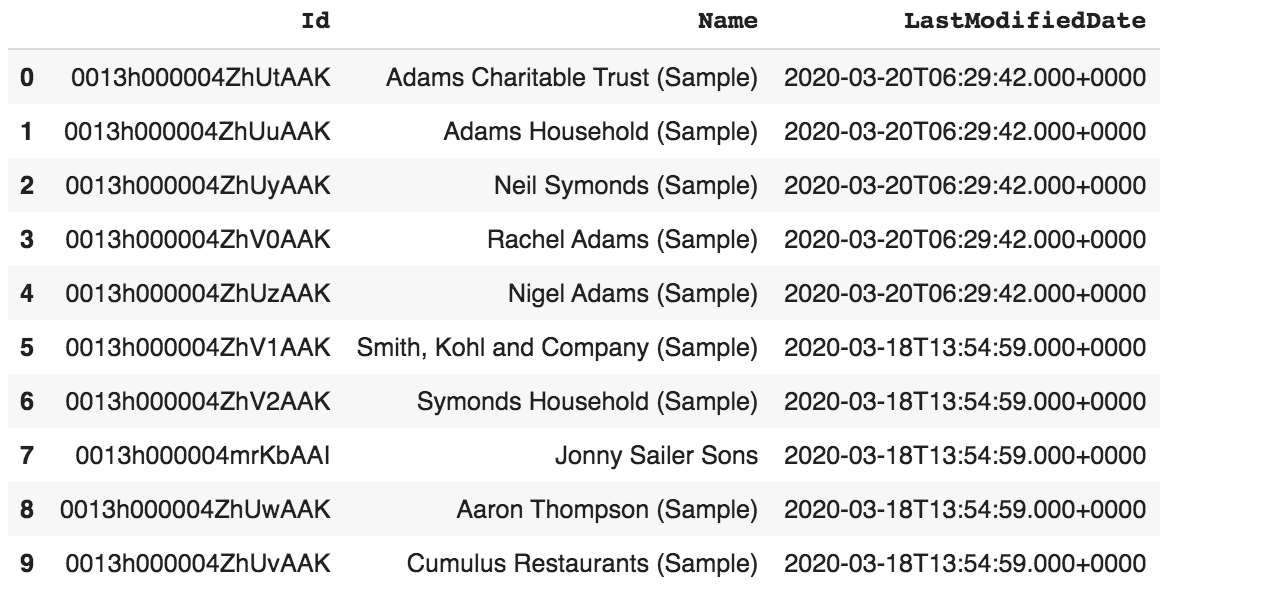
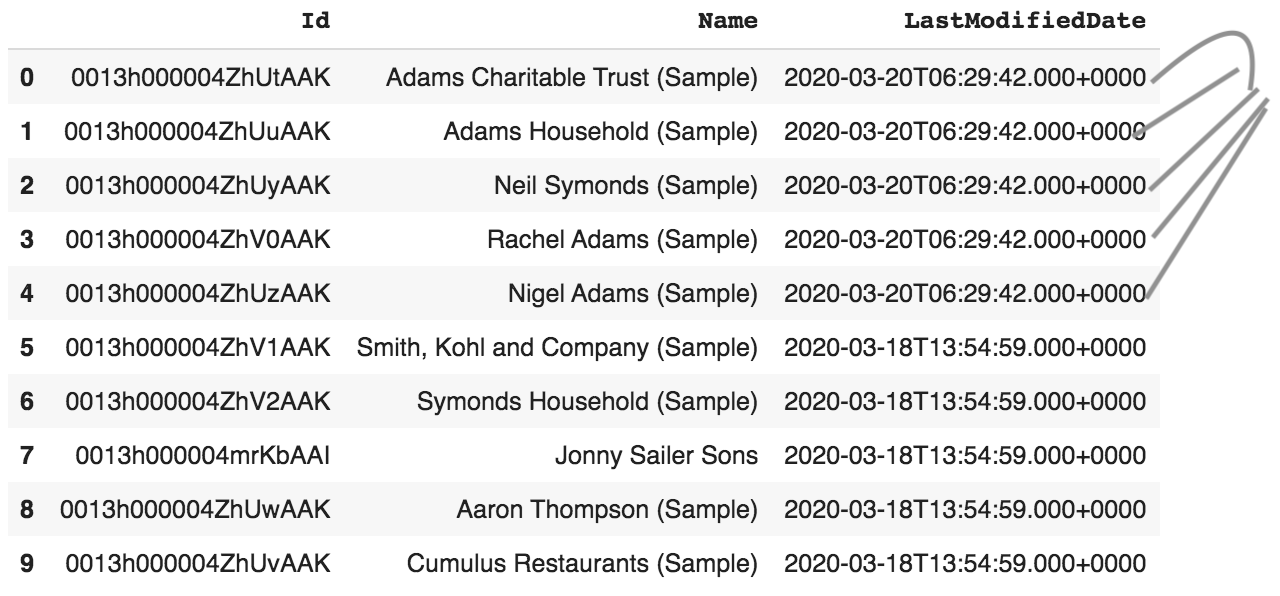
HH rollup added

Changed region(s): [[0.875, 0.0302, 1.0, 0.453], [0.875, 0.453, 0.9062, 0.5134]]

diff --git a/docs/hhrollup/README.md b/docs/hhrollup/README.md
@@ -1,9 +1,14 @@
 ## FSC Household Rollup for the given Household in realtime
 
+### Overview
+- System performs the rollup required for the Household the user currently viewing
+- Make use of the FSC RBL configs to trigger the required rollups for the household in context 
+
+
 ### Demo
 ![Demo](img/HH-Rollup-1.gif)
 
-### Updated Accounts
+### Updated Accounts - note the updated dates
 ![updated accounts](img/account-update-1.png)
 
 
